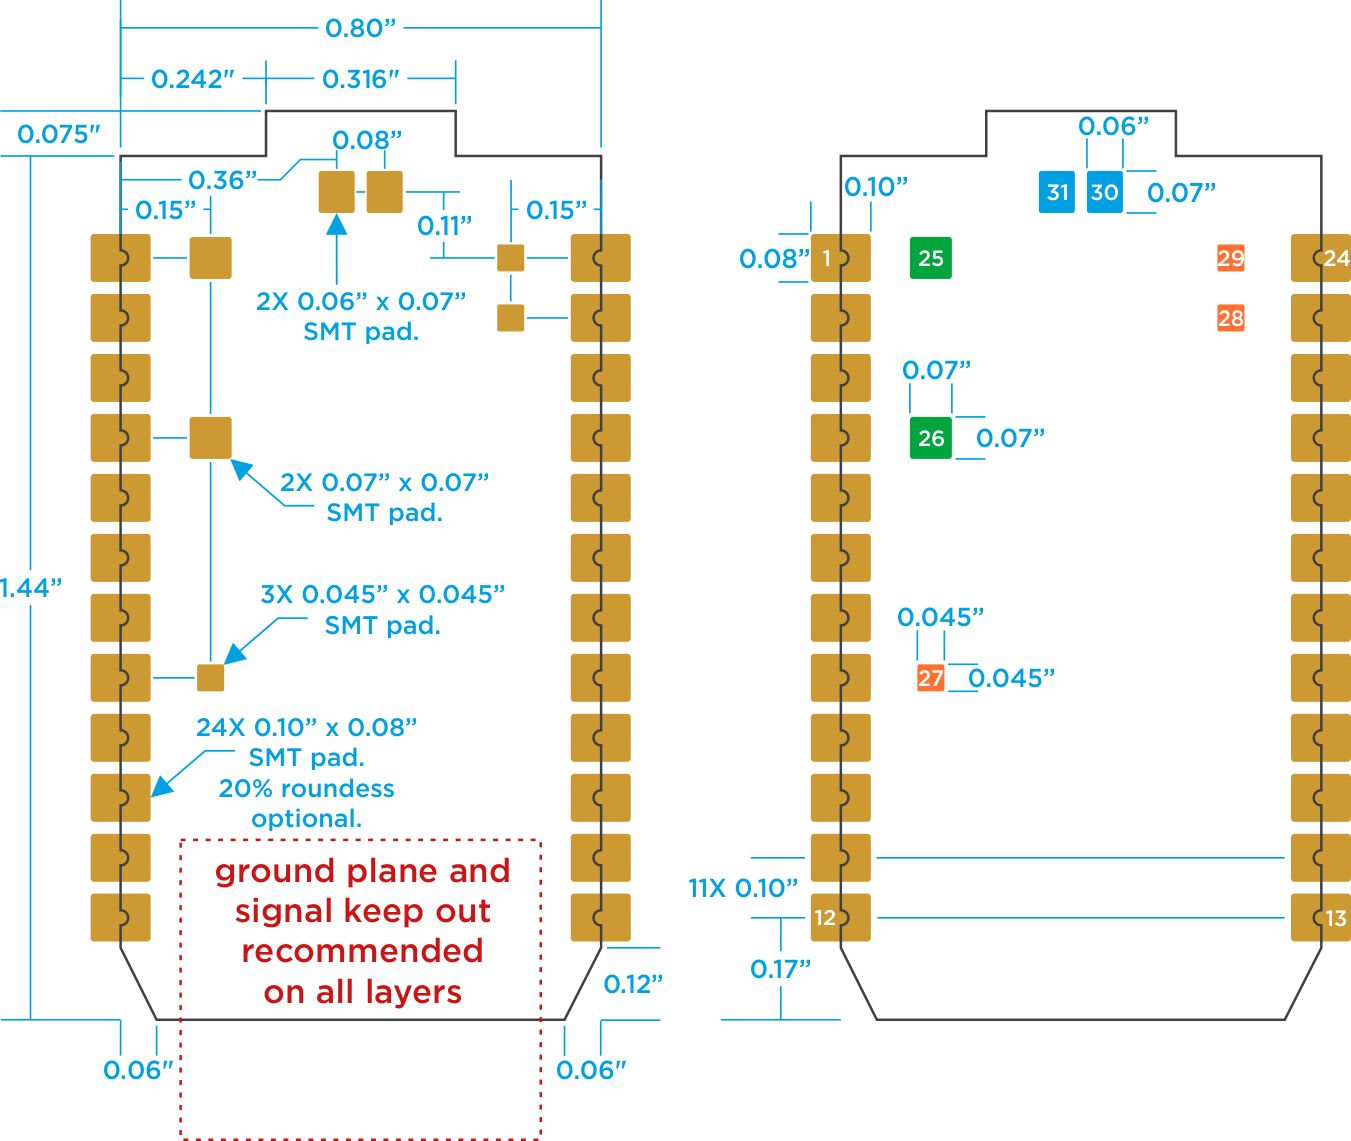
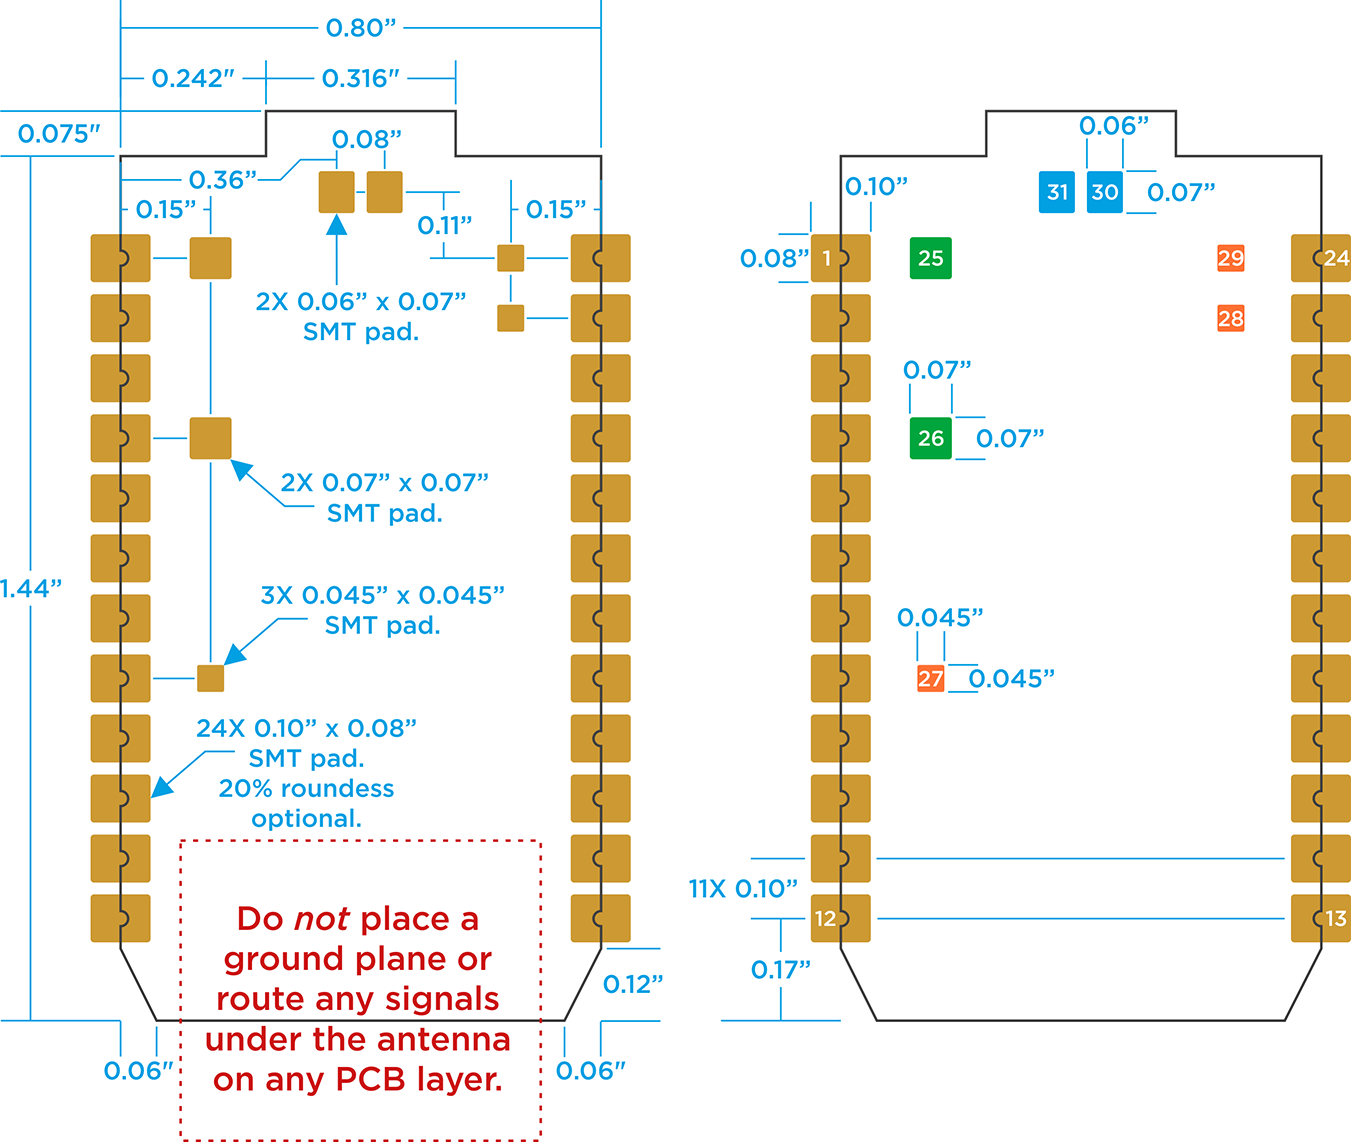
clarified note about routing signals under the photon's antenna

diff --git a/src/content/datasheets/photon-datasheet.md b/src/content/datasheets/photon-datasheet.md
@@ -644,7 +644,7 @@ Cet équipement devrait être installé et actionné avec une distance minimum d
 | v010 | 1-June-2015 | BW | Updated VBAT info |
 | v011 | 24-July-2015 | BW | Added FCC IC CE Warnings and End Product Labeling Requirements, Updated power output, added approved antennas, Corrected DAC2 as A3, Added pin numbers to PCB Land Pattern for Photon without headers. |
 | v012 | 15-January-2016 | WH | Added TELEC Certification information and expanded explanation of Photons with and without headers.
-| v013 | 7-April-2016 | BW | Added: full STM32 part number, Memory map, DAC limits, SWD pin locations, max source/sink current, more descriptive info about bottom side pads, known errata URL. Updated: BT COEX info, pin diagram, block diagram, operating conditions, pin descriptions.
+| v013 | 7-April-2016 | BW | Added: full STM32 part number, Memory map, DAC limits, SWD pin locations, max source/sink current, more descriptive info about bottom side pads, known errata URL. Updated: BT COEX info, pin diagram, block diagram, operating conditions, pin descriptions, land-pattern image signal keepout note.
 
 ## Known Errata
 
